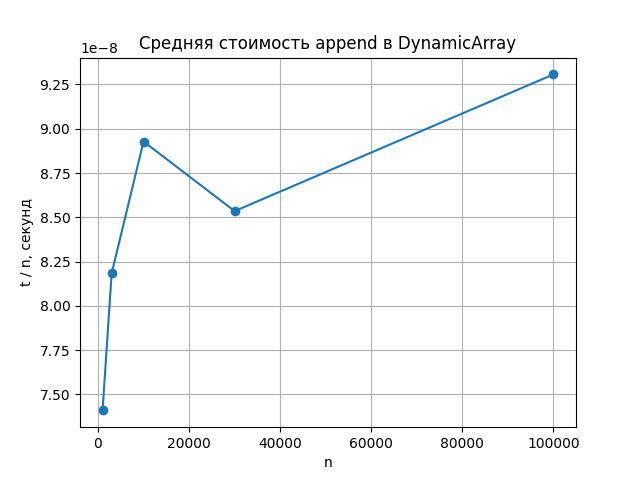
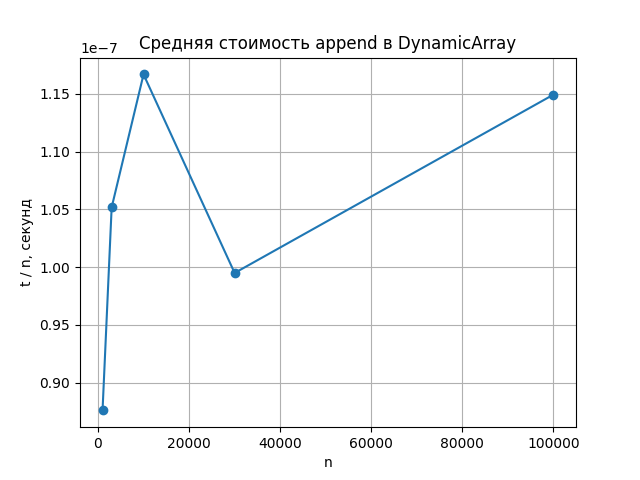
Доработка лабы

diff --git a/lab02-recursion-structures-starter.py b/lab02-recursion-structures-starter.py
@@ -66,21 +66,28 @@ def fib_memo(n: int, memo: dict[int, int] | None = None) -> int:
     return memo[n]
 
 
-def hanoi(n: int, src: str = "A", dst: str = "C", aux: str = "B") -> int:
-    """Ханойские башни: вернуть число перемещений n дисков (src -> dst).
+def hanoi(
+    n: int,
+    src: str = "A",
+    dst: str = "C",
+    aux: str = "B",
+    moves: list[tuple[str, str]] | None = None,
+) -> int:
+    """Ханойские башни: подсчёт и запись перемещений."""
 
-    Проверка в self_check: число перемещений равно 2**n - 1.
-    """
-    # Базовое условие n == 0; иначе перенести n-1 на aux, 1 на dst, n-1 на dst
     if n == 0:
         return 0
 
-    moves = hanoi(n - 1, src, aux, dst)
-    moves += 1
-    moves += hanoi(n - 1, aux, dst, src)
+    count = hanoi(n - 1, src, aux, dst, moves)
 
-    return moves
+    if moves is not None:
+        moves.append((src, dst))
 
+    count += 1
+
+    count += hanoi(n - 1, aux, dst, src, moves)
+
+    return count
 
 # ---------------------------------------------------------------------------
 # 2. Динамический массив с ручным управлением ёмкостью (рост x2)
@@ -101,6 +108,7 @@ class DynamicArray:
         self._capacity = self.INITIAL_CAPACITY
         self._size = 0
         self._buffer: list = [None] * self._capacity  # «сырая» память
+        self.copies = 0
 
     def __len__(self) -> int:
         return self._size
@@ -116,6 +124,7 @@ class DynamicArray:
 
         for i in range(self._size):
             new_buffer[i] = self._buffer[i]
+            self.copies += 1
 
         self._buffer = new_buffer
         self._capacity = new_capacity
@@ -130,6 +139,17 @@ class DynamicArray:
 
         self._buffer[self._size] = value
         self._size += 1
+
+    def pop(self):
+        if self._size == 0:
+            raise IndexError("pop from empty DynamicArray")
+
+        index = self._size - 1
+        value = self._buffer[index]
+        self._buffer[index] = None
+        self._size -= 1
+
+        return value
 
     def get(self, index: int):
         """Вернуть элемент по индексу 0 <= index < size; иначе IndexError."""
@@ -165,15 +185,10 @@ class Stack:
         self._data.append(value)
 
     def pop(self):
-        """Снять элемент с вершины; для пустого стека — IndexError."""
         if len(self._data) == 0:
             raise IndexError("pop from empty stack")
 
-        index = len(self._data) - 1
-        value = self._data.get(index)
-        self._data._size -= 1
-
-        return value
+        return self._data.pop()
 
     def peek(self):
         """Вернуть вершину без удаления; для пустого стека — IndexError."""
